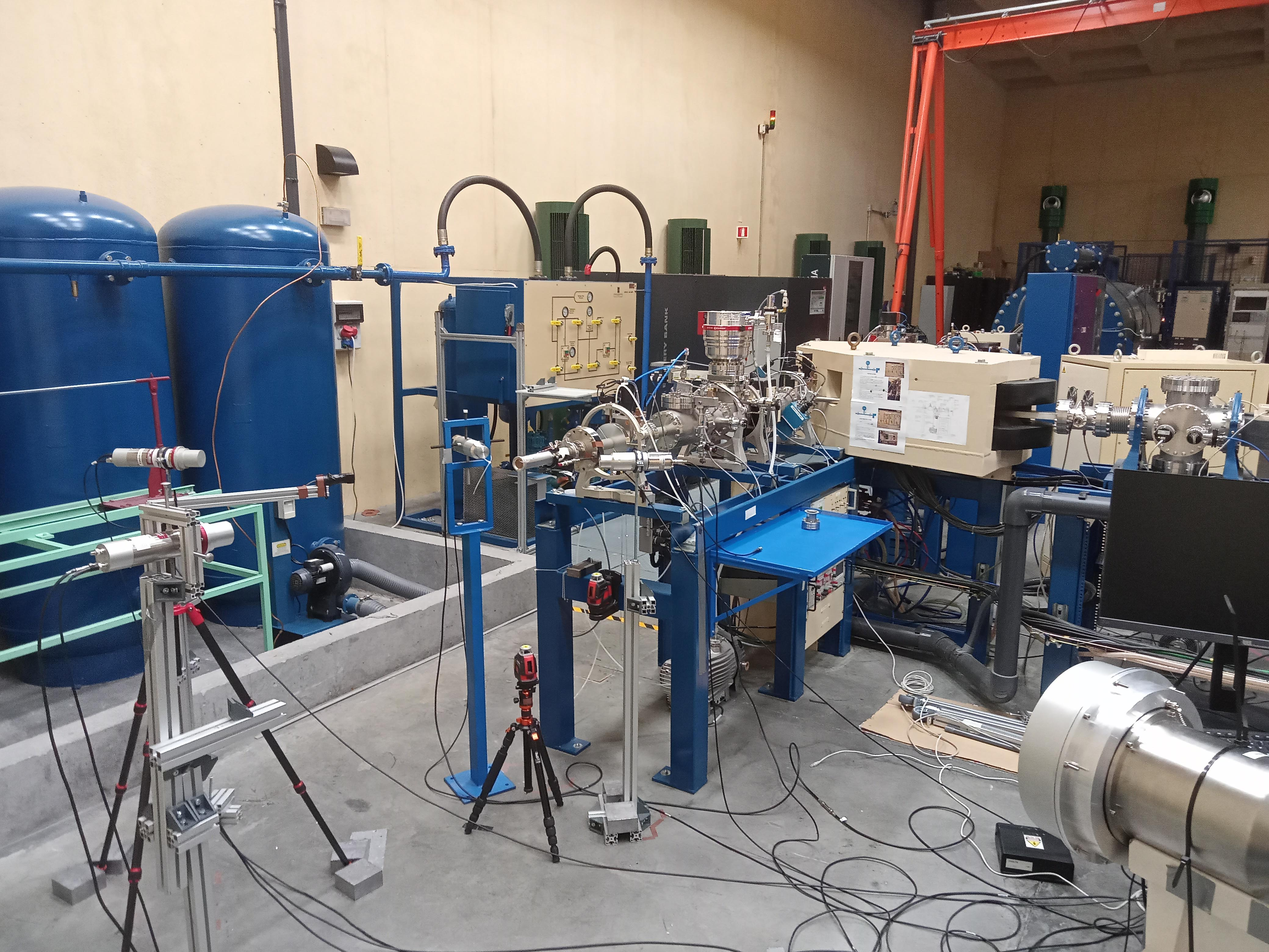
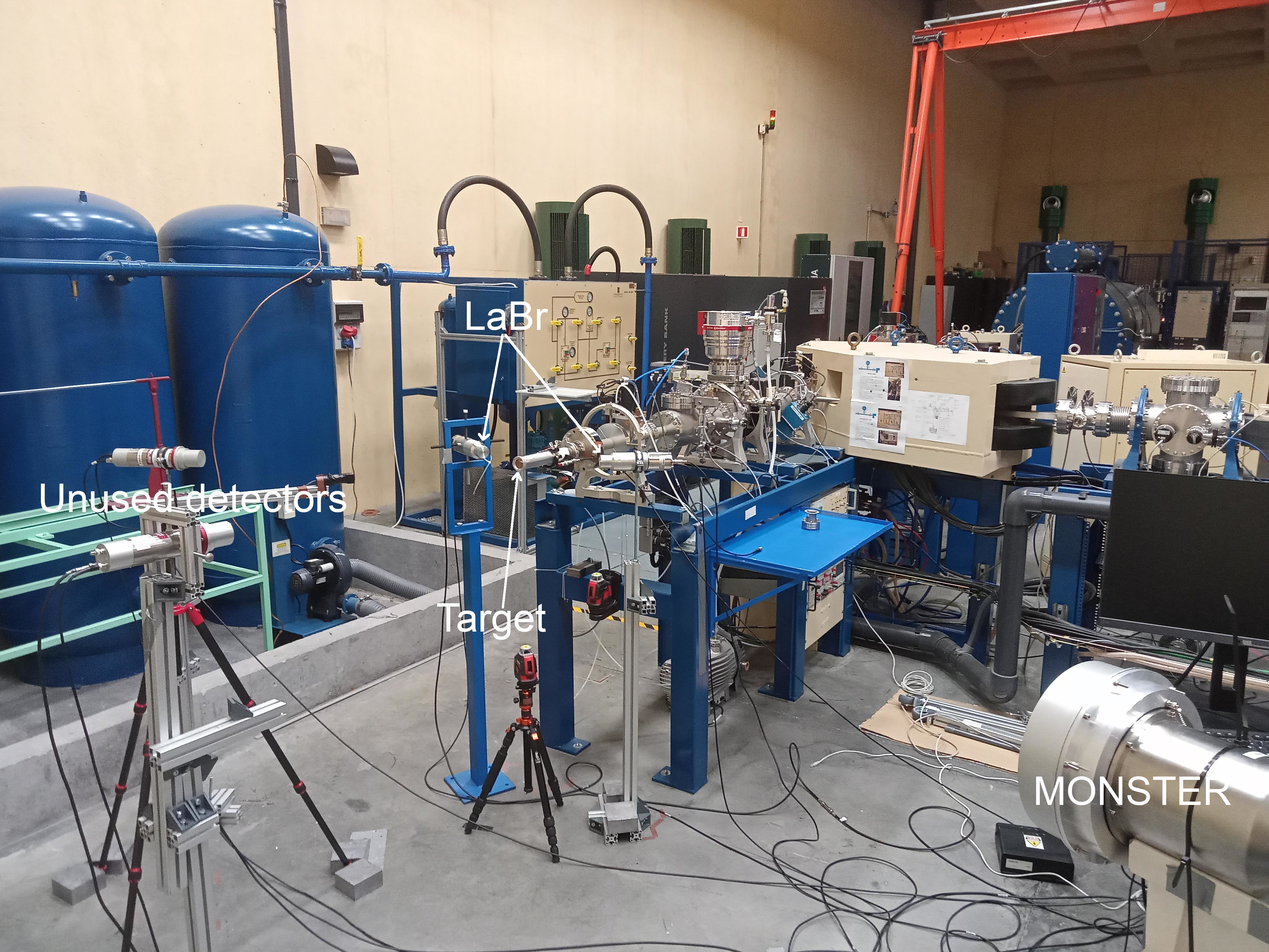
figuras con fotos

diff --git a/latex/TFM.tex b/latex/TFM.tex
@@ -109,9 +109,16 @@ Abstract español.
 
 \chapter{Experimental setup and procedure}
 \section{Setup}
-·Pictures.\\
 The source of alphas for the experiment is the \qty{3}{\mega\volt} tandem accelerator at CNA, which fires alphas at a \Aliso target.
 Detectors used are both organic and inorganic scintillators.
+
+\begin{figure}[H]
+	\centering
+	\includegraphics[width=0.9\textwidth]{overview_photo.jpg}
+	\caption{Overview picture of the experimental setup.
+	Detectors and the target are labeled.}
+	\label{overview_photo}
+\end{figure}
 
 \subsection{Tandem 3MV accelerator}
 A tandem is a type of linear particle accelerator whose main characteristic is that particles are accelerated twice by the same terminal voltage.
@@ -148,6 +155,13 @@ By measuring the charge on the target, we can know how many alphas have hit it.
 
 To do so, we connect the target via a copper wire to a \emph{charge integrator}, a device that emits a pulse and discharges the target each time it reaches \qty{0.1}{\nano\coulomb}, or approximately \num{3E8} alphas.
 It is important that the target does not accumulate too much positive charge, as that could slow down or deflect incoming particles.
+
+\begin{figure}[H]
+	\centering
+	\includegraphics[width=0.5\textwidth]{target_with_calibration.jpg}
+	\caption{Target at the end of the neutron line, with a calibration source taped for efficiency calibration measurements.}
+	\label{target_photo}
+\end{figure}
 
 \subsection{Radiation detectors}
 The thick target yield (number of \an reactions per number of incident alphas) will be measured by using gamma detectors, while the \an neutron spectra will be done via time of flight measurements with a neutron detector.
